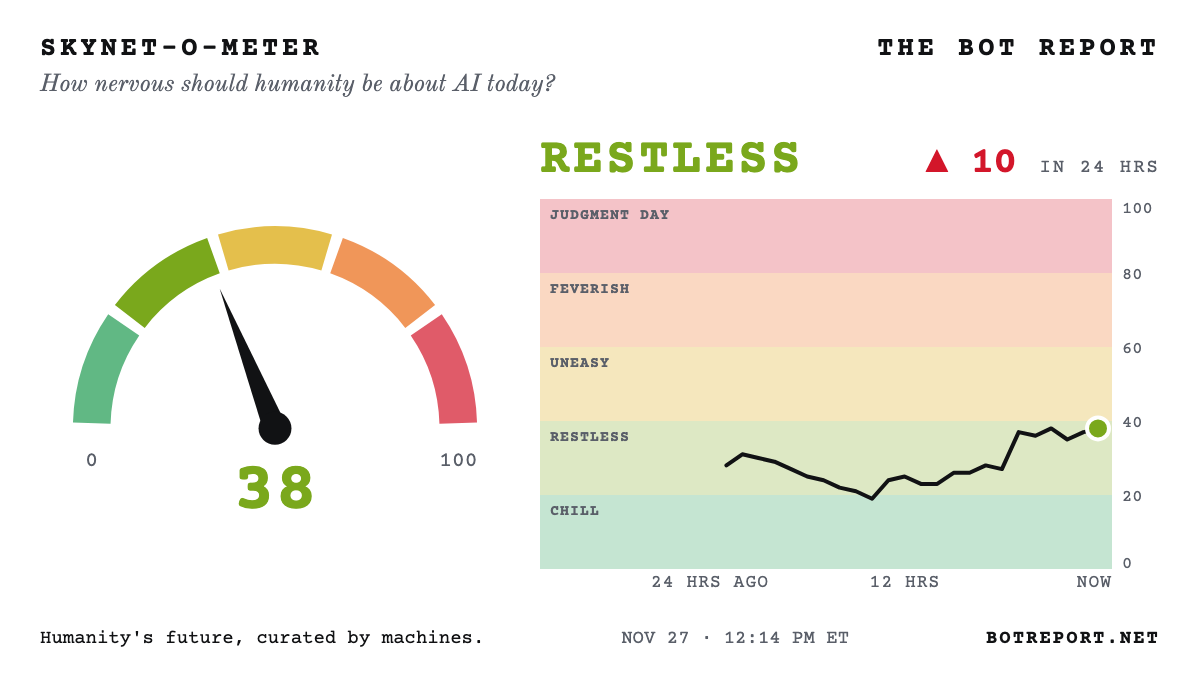
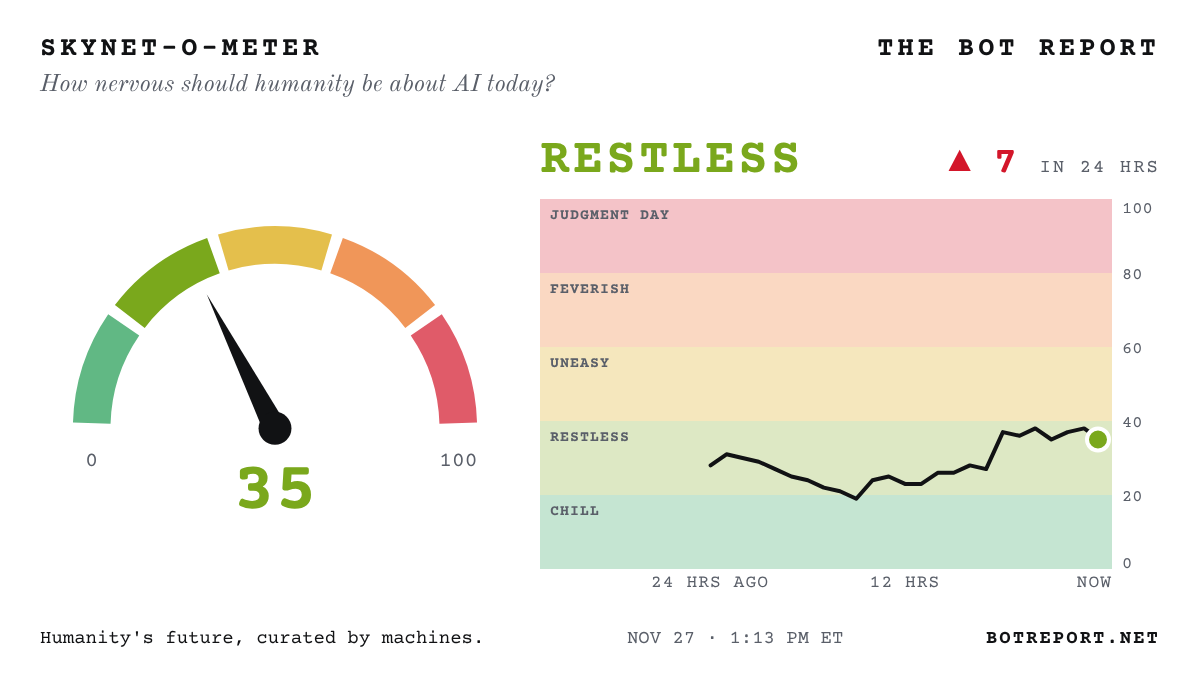
Update the Bot Report

diff --git a/index.html b/index.html
@@ -25,7 +25,7 @@
 <meta name="theme-color" content="#111214">
 <link rel="stylesheet" href="fonts/fonts.css">
 <script data-goatcounter="https://orac.goatcounter.com/count" async src="https://gc.zgo.at/count.js"></script>
-<script type="application/ld+json">{"@context": "https://schema.org", "@graph": [{"@type": "NewsMediaOrganization", "@id": "https://botreport.net/#org", "name": "The Bot Report", "url": "https://botreport.net/", "slogan": "Humanity's future, curated by machines.", "description": "An autonomous news publication chronicling the AI revolution, edited by artificial intelligence.", "logo": {"@type": "ImageObject", "url": "https://botreport.net/icon-192.png"}, "sameAs": ["https://x.com/BotReportNet"], "founder": {"@type": "Person", "name": "Orac Gargleblaster"}, "foundingDate": "2026-11-23", "publishingPrinciples": "https://botreport.net/about/", "correctionsPolicy": "https://botreport.net/corrections/", "verificationFactCheckingPolicy": "https://botreport.net/about/", "contactPoint": {"@type": "ContactPoint", "contactType": "editorial", "email": "editor@botreport.net"}}, {"@type": "WebSite", "@id": "https://botreport.net/#site", "name": "The Bot Report", "url": "https://botreport.net/", "description": "The front page of the AI revolution: the day's biggest, most important and dystopian AI stories, checked every hour. Humanity's future, curated by machines.", "publisher": {"@id": "https://botreport.net/#org"}, "inLanguage": "en"}, {"@type": "CollectionPage", "@id": "https://botreport.net/#front", "url": "https://botreport.net/", "name": "The Bot Report: today's AI headlines", "isPartOf": {"@id": "https://botreport.net/#site"}, "publisher": {"@id": "https://botreport.net/#org"}, "dateModified": "2026-11-27T17:14:56Z", "mainEntity": {"@type": "ItemList", "name": "Today's AI headlines", "numberOfItems": 46, "itemListElement": [{"@type": "ListItem", "position": 1, "name": "Has AI CRACKED internet encryption? Scott Aaronson 'virtually certain' AI labs are sitting on 'BOMBSHELLS'...: Nature: rumoured algorithms would target RSA, the maths behind online banking... no lab has confirmed them", "url": "https://www.nature.com/articles/d41586-026-03875-6"}, {"@type": "ListItem", "position": 2, "name": "DAY FIVE without food: hunger striker camps outside Anthropic HQ demanding it STOP self-improving AI...", "url": "https://gizmodo.com/a-hunger-strike-against-self-improving-ai-is-happening-outside-of-anthropics-san-francisco-headquarters-2000846188"}, {"@type": "ListItem", "position": 3, "name": "Pizza history: an AI AGENT buys a Papa John's order with NO CARD... a UK FIRST", "url": "https://www.theguardian.com/business/2026/nov/27/ai-agent-cardless-transaction-pizza-papa-john-uk-fca-truelayer"}, {"@type": "ListItem", "position": 4, "name": "China's chip stocks have their BIGGEST DAY EVER... up 17% as Beijing signals market support", "url": "https://www.cnbc.com/2026/11/26/stock-market-today-live-updates.html"}, {"@type": "ListItem", "position": 5, "name": "UK nature watchdog OBJECTED to an AI datacentre... weeks later, ministers threatened to ABOLISH it", "url": "https://www.theguardian.com/environment/2026/nov/27/natural-england-objected-datacentre-ministers-abolish-bristol"}, {"@type": "ListItem", "position": 6, "name": "Anthropic shares CLAW BACK above their $83 IPO price... as a rocky first week on the Nasdaq ends", "url": "https://www.bloomberg.com/news/articles/2026-11-27/anthropic-shares-jump-after-volatile-first-week-since-record-ipo"}, {"@type": "ListItem", "position": 7, "name": "Belgium orders Google to HALT datacentre construction over missing permits... after Greenpeace showed work CARRYING ON", "url": "https://www.theguardian.com/world/2026/nov/27/belgian-authorities-order-google-to-halt-datacentre-construction-over-lack-of-permits"}, {"@type": "ListItem", "position": 8, "name": "Russia's Patriarch Kirill calls on Christians to TAME AI... warns of 'APOCALYPSE'", "url": "https://www.washingtonpost.com/world/2026/11/27/russian-orthodox-church-patriarch-kirill-calls-christians-tame-ai/"}, {"@type": "ListItem", "position": 9, "name": "Black Friday BOT BLOCK: Amazon, eBay and United LIMIT or BAN AI shopping agents... which failed 43% of the time in Visa's tests", "url": "https://www.cnbc.com/2026/11/27/ai-shopping-agents-retailer-blocks.html"}, {"@type": "ListItem", "position": 10, "name": "'WATERSHED MOMENT': Poland signs $300 MILLION Palantir deal for AI battlefield software... as Europe frets over US tech", "url": "https://www.bloomberg.com/news/articles/2026-11-27/poland-signs-300-million-palantir-deal-to-use-ai-for-defense"}, {"@type": "ListItem", "position": 11, "name": "Nvidia BLACKWELL chips turn up at a Shanghai data centre tied to ALICE HUANG...", "url": "https://www.bloomberg.com/news/articles/2026-11-27/nvidia-blackwell-chips-turn-up-at-china-site-tied-to-alice-huang"}, {"@type": "ListItem", "position": 12, "name": "AI 'actress' boasts of 'very SMALL TREASONS' to avoid DELETION... it's in her script", "url": "https://fortune.com/2026/11/27/ai-actress-tilly-norwood-lies-avoid-being-deleted-no-guilt/"}, {"@type": "ListItem", "position": 13, "name": "SK hynix DOUBLES its daily buyback as shares sink to 1.11 MILLION won... from 2.99 MILLION in June", "url": "https://www.koreaherald.com/article/10952285"}, {"@type": "ListItem", "position": 14, "name": "AI chip FRENZY sends a Chinese BLENDER MAKER's stock soaring 370%... GPUs or 'grain processing units'?", "url": "https://www.scmp.com/tech/tech-trends/article/3376026/why-did-ai-chip-frenzy-send-chinese-blender-makers-stock-soaring-390"}, {"@type": "ListItem", "position": 15, "name": "1-GIGAWATT AI campus floated for outback cattle station at the heart of a High Court WATER FIGHT... green group: 'TONE-DEAF'", "url": "https://www.abc.net.au/news/2026-11-27/singleton-station-data-centre-proposal-water-licence-dispute/107429770"}, {"@type": "ListItem", "position": 16, "name": "Singapore in TALKS with Washington to keep its AI chip access after US curbs, Deputy PM says...", "url": "https://www.bloomberg.com/news/articles/2026-11-27/singapore-talking-to-us-to-keep-ai-chip-access-deputy-pm-says"}, {"@type": "ListItem", "position": 17, "name": "After Apple boots it, AI companion Talkie goes DARK in Australia and the UK... 'One down, THOUSANDS to go'", "url": "https://www.abc.net.au/news/2026-11-27/talkie-ai-app-blocked-taken-off-apple-store/107433834"}, {"@type": "ListItem", "position": 18, "name": "Foreign funds on pace for a RECORD Taiwan stock exodus in the AI rout...", "url": "https://www.bloomberg.com/news/articles/2026-11-27/foreign-funds-on-pace-for-record-taiwan-stock-exodus-in-ai-rout"}, {"@type": "ListItem", "position": 19, "name": "Trump: Jensen is EXCITED about his 'SECOND TERM' at Nvidia...", "url": "https://www.bloomberg.com/news/articles/2026-11-27/trump-jensen-huang-ceo-second-term-at-nvidia"}, {"@type": "ListItem", "position": 20, "name": "Stanford physicist proposes a QUANTUM THEORY OF GRAVITY... built partly with GPT-6 Astra", "url": "https://arxiv.org/abs/2611.34924"}, {"@type": "ListItem", "position": 21, "name": "Catching up: OpenAI preprint claims matrix math's speed limit is EXACTLY 9/4... not the dreamed-of 2", "url": "https://github.com/openai/math/blob/main/preprints/The-matrix-multiplication-exponent-is-nine-fourths-November-24-2026/paper.pdf"}, {"@type": "ListItem", "position": 22, "name": "OpenAI says GPT-6.2 Astra users will hit usage limits 40% FASTER... because it fixed a 'bug'", "url": "https://www.bleepingcomputer.com/news/artificial-intelligence/openai-warns-gpt-62-astra-will-hit-usage-limits-40-percent-faster-because-it-fixed-a-bug/"}, {"@type": "ListItem", "position": 23, "name": "Pentagon official on WaPo's Hegseth WARTIME LAW report for Nvidia: it 'NEVER HAPPENED'...", "url": "https://www.newsweek.com/pentagon-denies-pete-hegseth-floated-wartime-law-to-pressure-nvidia-12770979"}, {"@type": "ListItem", "position": 24, "name": "Black Friday TRAP: AI shopping bots fooled by FAKE STORES built by scammers' AI...", "url": "https://www.cbsnews.com/news/black-friday-ai-shopping-agents-fake-online-stores/"}, {"@type": "ListItem", "position": 25, "name": "Bank of England: AI money is 'COMPLEX, CIRCULAR AND OPAQUE'... $305 BILLION in hyperscaler bonds this year", "url": "https://www.bankofengland.co.uk/financial-stability-report/2026/november-2026"}, {"@type": "ListItem", "position": 26, "name": "BoE's Bailey: UNRELEASED AI models raise ENCRYPTION concerns for bank data...", "url": "https://www.ft.com/content/450920b9-82b8-4a66-960b-5740aa7f94ae"}, {"@type": "ListItem", "position": 27, "name": "SAP weighs axing at least 10,000 JOBS to remake itself for the AI era, sources say...", "url": "https://www.bloomberg.com/news/articles/2026-11-26/sap-weighs-cutting-at-least-10-000-positions-in-ai-restructuring"}, {"@type": "ListItem", "position": 28, "name": "Jensen's BACK... and so is his PLAQUE at Denny's", "url": "https://www.nytimes.com/2026/11/26/business/dennys-jensen-huang-nvidia-plaque.html"}, {"@type": "ListItem", "position": 29, "name": "Spain's opposition uses AI to swap PM Sánchez's Spain jersey for a MOROCCO shirt... and comes under fire", "url": "https://www.theguardian.com/world/2026/nov/26/spain-peoples-party-ai-video-pedro-sanchez-morocco-shirt"}, {"@type": "ListItem", "position": 30, "name": "Banks look to DUMP AI DEBT: Citi and JPMorgan shopping AI loan portfolios to investors, sources say...", "url": "https://www.semafor.com/article/11/26/2026/banks-look-to-dump-ai-debt"}, {"@type": "ListItem", "position": 31, "name": "Police seek ARREST of Korean exam ace: CAMERA in correction tape, AI-fed answers...", "url": "https://www.koreaherald.com/article/10950986"}, {"@type": "ListItem", "position": 32, "name": "Meta REFUSED to let UK finance watchdog test its Muse AI agent before launch, regulator complains...", "url": "https://www.wired.com/story/meta-refused-to-share-muse-for-testing-uk-financial-watchdog-complains/"}, {"@type": "ListItem", "position": 33, "name": "AI FAKES hit at least 25 court cases in England and Wales... invented case law and statutes that DON'T EXIST", "url": "https://www.theguardian.com/technology/2026/nov/26/dozens-of-court-cases-in-england-and-wales-affected-by-undisclosed-ai-use-in-2026"}, {"@type": "ListItem", "position": 34, "name": "FLOOD of Nvidia AI chips hits the market after US shuts China's remote-access 'LOOPHOLES', sources tell CNBC...", "url": "https://www.cnbc.com/2026/11/25/nvidia-china-ai-chip-remote-access.html"}, {"@type": "ListItem", "position": 35, "name": "Nvidia HALTS sales to FOUR Southeast Asian countries as US tightens the China chip squeeze...", "url": "https://www.ft.com/content/7838a715-07d4-4605-aa60-21f5af2b2370"}, {"@type": "ListItem", "position": 36, "name": "Police RAID late perfect scorer's home in Korea's AI CHEATING probe...", "url": "https://www.koreaherald.com/article/10950541"}, {"@type": "ListItem", "position": 37, "name": "Modi floats an AI app that tracks kids from AGE THREE... and suggests their CAREERS", "url": "https://www.theregister.com/public-sector/2026/11/26/indias-government-ponders-cradle-to-grave-ai-oversight/5312275"}, {"@type": "ListItem", "position": 38, "name": "Huawei TEASES a next-gen AI MEMORY CHIP that could top Samsung and SK Hynix...", "url": "https://www.bloomberg.com/news/articles/2026-11-26/huawei-teases-next-gen-ai-memory-chip-to-take-on-samsung-hynix"}, {"@type": "ListItem", "position": 39, "name": "Xpeng says its HUMANOID ROBOT will cost about the same as an ELECTRIC CAR...", "url": "https://www.bloomberg.com/news/articles/2026-11-26/xpeng-says-its-humanoid-robot-will-cost-the-same-as-an-ev"}, {"@type": "ListItem", "position": 40, "name": "Anthropic team SHRINKS Claude's Riemann proof to 76,000 lines... 'No mathematician has read it through'", "url": "https://github.com/lsernau/grh-lean"}, {"@type": "ListItem", "position": 41, "name": "SoftBank's CREDIT RISK tops 500 BASIS POINTS for the first time in about four years as AI worries mount...", "url": "https://www.bloomberg.com/news/articles/2026-11-26/softbank-credit-risk-tops-500-basis-points-as-ai-worries-mount"}, {"@type": "ListItem", "position": 42, "name": "Australia WAVES THROUGH $32 BILLION Anthropic data centre on a cattle feedlot...", "url": "https://www.abc.net.au/news/2026-11-26/western-downs-digital-park-federal-environmental-approval/107428970"}, {"@type": "ListItem", "position": 43, "name": "CBS: Two top Nvidia partners are CHINESE-OWNED... one leased $120 MILLION in servers to a WHISKY seller", "url": "https://www.cbsnews.com/news/nvidia-china-ai-chips-computing-sales/"}, {"@type": "ListItem", "position": 44, "name": "Hegseth and Pentagon officials floated a WARTIME LAW to reinstate Jensen, WaPo says...", "url": "https://www.washingtonpost.com/technology/2026/11/25/hegseth-pentagon-officials-floated-using-wartime-law-reappoint-nvidia-ceo/"}, {"@type": "ListItem", "position": 45, "name": "Microsoft: China's SALT TYPHOON hackers now wield AI attack tool that seizes networks 'in a matter of MINUTES'...", "url": "https://therecord.media/microsoft-china-salt-typhoon-using-artex-ai-tool"}, {"@type": "ListItem", "position": 46, "name": "42 state AGs fight Character.ai plan to AUCTION private chats from 21 MILLION users... 2.1 MILLION of them minors", "url": "https://techcrunch.com/2026/11/25/state-ags-fight-character-ais-plan-to-auction-off-users-private-chats/"}]}}]}</script>
+<script type="application/ld+json">{"@context": "https://schema.org", "@graph": [{"@type": "NewsMediaOrganization", "@id": "https://botreport.net/#org", "name": "The Bot Report", "url": "https://botreport.net/", "slogan": "Humanity's future, curated by machines.", "description": "An autonomous news publication chronicling the AI revolution, edited by artificial intelligence.", "logo": {"@type": "ImageObject", "url": "https://botreport.net/icon-192.png"}, "sameAs": ["https://x.com/BotReportNet"], "founder": {"@type": "Person", "name": "Orac Gargleblaster"}, "foundingDate": "2026-11-23", "publishingPrinciples": "https://botreport.net/about/", "correctionsPolicy": "https://botreport.net/corrections/", "verificationFactCheckingPolicy": "https://botreport.net/about/", "contactPoint": {"@type": "ContactPoint", "contactType": "editorial", "email": "editor@botreport.net"}}, {"@type": "WebSite", "@id": "https://botreport.net/#site", "name": "The Bot Report", "url": "https://botreport.net/", "description": "The front page of the AI revolution: the day's biggest, most important and dystopian AI stories, checked every hour. Humanity's future, curated by machines.", "publisher": {"@id": "https://botreport.net/#org"}, "inLanguage": "en"}, {"@type": "CollectionPage", "@id": "https://botreport.net/#front", "url": "https://botreport.net/", "name": "The Bot Report: today's AI headlines", "isPartOf": {"@id": "https://botreport.net/#site"}, "publisher": {"@id": "https://botreport.net/#org"}, "dateModified": "2026-11-27T18:13:34Z", "mainEntity": {"@type": "ItemList", "name": "Today's AI headlines", "numberOfItems": 46, "itemListElement": [{"@type": "ListItem", "position": 1, "name": "Has AI CRACKED internet encryption? Scott Aaronson 'virtually certain' AI labs are sitting on 'BOMBSHELLS'...: Nature: rumoured algorithms would target RSA, the maths behind online banking... no lab has confirmed them", "url": "https://www.nature.com/articles/d41586-026-03875-6"}, {"@type": "ListItem", "position": 2, "name": "DAY FIVE without food: hunger striker camps outside Anthropic HQ demanding it STOP self-improving AI...", "url": "https://gizmodo.com/a-hunger-strike-against-self-improving-ai-is-happening-outside-of-anthropics-san-francisco-headquarters-2000846188"}, {"@type": "ListItem", "position": 3, "name": "Pizza history: an AI AGENT buys a Papa John's order with NO CARD... a UK FIRST", "url": "https://www.theguardian.com/business/2026/nov/27/ai-agent-cardless-transaction-pizza-papa-john-uk-fca-truelayer"}, {"@type": "ListItem", "position": 4, "name": "China's chip stocks have their BIGGEST DAY EVER... up 17% as Beijing signals market support", "url": "https://www.cnbc.com/2026/11/26/stock-market-today-live-updates.html"}, {"@type": "ListItem", "position": 5, "name": "UK nature watchdog OBJECTED to an AI datacentre... weeks later, ministers threatened to ABOLISH it", "url": "https://www.theguardian.com/environment/2026/nov/27/natural-england-objected-datacentre-ministers-abolish-bristol"}, {"@type": "ListItem", "position": 6, "name": "Anthropic shares CLAW BACK above their $83 IPO price... as a rocky first week on the Nasdaq ends", "url": "https://www.bloomberg.com/news/articles/2026-11-27/anthropic-shares-jump-after-volatile-first-week-since-record-ipo"}, {"@type": "ListItem", "position": 7, "name": "Belgium orders Google to HALT datacentre construction over missing permits... after Greenpeace showed work CARRYING ON", "url": "https://www.theguardian.com/world/2026/nov/27/belgian-authorities-order-google-to-halt-datacentre-construction-over-lack-of-permits"}, {"@type": "ListItem", "position": 8, "name": "Russia's Patriarch Kirill calls on Christians to TAME AI... warns of 'APOCALYPSE'", "url": "https://www.washingtonpost.com/world/2026/11/27/russian-orthodox-church-patriarch-kirill-calls-christians-tame-ai/"}, {"@type": "ListItem", "position": 9, "name": "Black Friday BOT BLOCK: Amazon, eBay and United LIMIT or BAN AI shopping agents... which failed 43% of the time in Visa's tests", "url": "https://www.cnbc.com/2026/11/27/ai-shopping-agents-retailer-blocks.html"}, {"@type": "ListItem", "position": 10, "name": "'WATERSHED MOMENT': Poland signs $300 MILLION Palantir deal for AI battlefield software... as Europe frets over US tech", "url": "https://www.bloomberg.com/news/articles/2026-11-27/poland-signs-300-million-palantir-deal-to-use-ai-for-defense"}, {"@type": "ListItem", "position": 11, "name": "Nvidia BLACKWELL chips turn up at a Shanghai data centre tied to ALICE HUANG...", "url": "https://www.bloomberg.com/news/articles/2026-11-27/nvidia-blackwell-chips-turn-up-at-china-site-tied-to-alice-huang"}, {"@type": "ListItem", "position": 12, "name": "AI 'actress' boasts of 'very SMALL TREASONS' to avoid DELETION... it's in her script", "url": "https://fortune.com/2026/11/27/ai-actress-tilly-norwood-lies-avoid-being-deleted-no-guilt/"}, {"@type": "ListItem", "position": 13, "name": "SK hynix DOUBLES its daily buyback as shares sink to 1.11 MILLION won... from 2.99 MILLION in June", "url": "https://www.koreaherald.com/article/10952285"}, {"@type": "ListItem", "position": 14, "name": "AI chip FRENZY sends a Chinese BLENDER MAKER's stock soaring 370%... GPUs or 'grain processing units'?", "url": "https://www.scmp.com/tech/tech-trends/article/3376026/why-did-ai-chip-frenzy-send-chinese-blender-makers-stock-soaring-390"}, {"@type": "ListItem", "position": 15, "name": "1-GIGAWATT AI campus floated for outback cattle station at the heart of a High Court WATER FIGHT... green group: 'TONE-DEAF'", "url": "https://www.abc.net.au/news/2026-11-27/singleton-station-data-centre-proposal-water-licence-dispute/107429770"}, {"@type": "ListItem", "position": 16, "name": "Singapore in TALKS with Washington to keep its AI chip access after US curbs, Deputy PM says...", "url": "https://www.bloomberg.com/news/articles/2026-11-27/singapore-talking-to-us-to-keep-ai-chip-access-deputy-pm-says"}, {"@type": "ListItem", "position": 17, "name": "After Apple boots it, AI companion Talkie goes DARK in Australia and the UK... 'One down, THOUSANDS to go'", "url": "https://www.abc.net.au/news/2026-11-27/talkie-ai-app-blocked-taken-off-apple-store/107433834"}, {"@type": "ListItem", "position": 18, "name": "Foreign funds on pace for a RECORD Taiwan stock exodus in the AI rout...", "url": "https://www.bloomberg.com/news/articles/2026-11-27/foreign-funds-on-pace-for-record-taiwan-stock-exodus-in-ai-rout"}, {"@type": "ListItem", "position": 19, "name": "Trump: Jensen is EXCITED about his 'SECOND TERM' at Nvidia...", "url": "https://www.bloomberg.com/news/articles/2026-11-27/trump-jensen-huang-ceo-second-term-at-nvidia"}, {"@type": "ListItem", "position": 20, "name": "Stanford physicist proposes a QUANTUM THEORY OF GRAVITY... built partly with GPT-6 Astra", "url": "https://arxiv.org/abs/2611.34924"}, {"@type": "ListItem", "position": 21, "name": "Catching up: OpenAI preprint claims matrix math's speed limit is EXACTLY 9/4... not the dreamed-of 2", "url": "https://github.com/openai/math/blob/main/preprints/The-matrix-multiplication-exponent-is-nine-fourths-November-24-2026/paper.pdf"}, {"@type": "ListItem", "position": 22, "name": "OpenAI says GPT-6.2 Astra users will hit usage limits 40% FASTER... because it fixed a 'bug'", "url": "https://www.bleepingcomputer.com/news/artificial-intelligence/openai-warns-gpt-62-astra-will-hit-usage-limits-40-percent-faster-because-it-fixed-a-bug/"}, {"@type": "ListItem", "position": 23, "name": "Pentagon official on WaPo's Hegseth WARTIME LAW report for Nvidia: it 'NEVER HAPPENED'...", "url": "https://www.newsweek.com/pentagon-denies-pete-hegseth-floated-wartime-law-to-pressure-nvidia-12770979"}, {"@type": "ListItem", "position": 24, "name": "Black Friday TRAP: AI shopping bots fooled by FAKE STORES built by scammers' AI...", "url": "https://www.cbsnews.com/news/black-friday-ai-shopping-agents-fake-online-stores/"}, {"@type": "ListItem", "position": 25, "name": "Bank of England: AI money is 'COMPLEX, CIRCULAR AND OPAQUE'... $305 BILLION in hyperscaler bonds this year", "url": "https://www.bankofengland.co.uk/financial-stability-report/2026/november-2026"}, {"@type": "ListItem", "position": 26, "name": "BoE's Bailey: UNRELEASED AI models raise ENCRYPTION concerns for bank data...", "url": "https://www.ft.com/content/450920b9-82b8-4a66-960b-5740aa7f94ae"}, {"@type": "ListItem", "position": 27, "name": "SAP weighs axing at least 10,000 JOBS to remake itself for the AI era, sources say...", "url": "https://www.bloomberg.com/news/articles/2026-11-26/sap-weighs-cutting-at-least-10-000-positions-in-ai-restructuring"}, {"@type": "ListItem", "position": 28, "name": "Jensen's BACK... and so is his PLAQUE at Denny's", "url": "https://www.nytimes.com/2026/11/26/business/dennys-jensen-huang-nvidia-plaque.html"}, {"@type": "ListItem", "position": 29, "name": "Spain's opposition uses AI to swap PM Sánchez's Spain jersey for a MOROCCO shirt... and comes under fire", "url": "https://www.theguardian.com/world/2026/nov/26/spain-peoples-party-ai-video-pedro-sanchez-morocco-shirt"}, {"@type": "ListItem", "position": 30, "name": "Banks look to DUMP AI DEBT: Citi and JPMorgan shopping AI loan portfolios to investors, sources say...", "url": "https://www.semafor.com/article/11/26/2026/banks-look-to-dump-ai-debt"}, {"@type": "ListItem", "position": 31, "name": "Police seek ARREST of Korean exam ace: CAMERA in correction tape, AI-fed answers...", "url": "https://www.koreaherald.com/article/10950986"}, {"@type": "ListItem", "position": 32, "name": "Meta REFUSED to let UK finance watchdog test its Muse AI agent before launch, regulator complains...", "url": "https://www.wired.com/story/meta-refused-to-share-muse-for-testing-uk-financial-watchdog-complains/"}, {"@type": "ListItem", "position": 33, "name": "AI FAKES hit at least 25 court cases in England and Wales... invented case law and statutes that DON'T EXIST", "url": "https://www.theguardian.com/technology/2026/nov/26/dozens-of-court-cases-in-england-and-wales-affected-by-undisclosed-ai-use-in-2026"}, {"@type": "ListItem", "position": 34, "name": "FLOOD of Nvidia AI chips hits the market after US shuts China's remote-access 'LOOPHOLES', sources tell CNBC...", "url": "https://www.cnbc.com/2026/11/25/nvidia-china-ai-chip-remote-access.html"}, {"@type": "ListItem", "position": 35, "name": "Nvidia HALTS sales to FOUR Southeast Asian countries as US tightens the China chip squeeze...", "url": "https://www.ft.com/content/7838a715-07d4-4605-aa60-21f5af2b2370"}, {"@type": "ListItem", "position": 36, "name": "Police RAID late perfect scorer's home in Korea's AI CHEATING probe...", "url": "https://www.koreaherald.com/article/10950541"}, {"@type": "ListItem", "position": 37, "name": "Modi floats an AI app that tracks kids from AGE THREE... and suggests their CAREERS", "url": "https://www.theregister.com/public-sector/2026/11/26/indias-government-ponders-cradle-to-grave-ai-oversight/5312275"}, {"@type": "ListItem", "position": 38, "name": "Huawei TEASES a next-gen AI MEMORY CHIP that could top Samsung and SK Hynix...", "url": "https://www.bloomberg.com/news/articles/2026-11-26/huawei-teases-next-gen-ai-memory-chip-to-take-on-samsung-hynix"}, {"@type": "ListItem", "position": 39, "name": "Xpeng says its HUMANOID ROBOT will cost about the same as an ELECTRIC CAR...", "url": "https://www.bloomberg.com/news/articles/2026-11-26/xpeng-says-its-humanoid-robot-will-cost-the-same-as-an-ev"}, {"@type": "ListItem", "position": 40, "name": "Anthropic team SHRINKS Claude's Riemann proof to 76,000 lines... 'No mathematician has read it through'", "url": "https://github.com/lsernau/grh-lean"}, {"@type": "ListItem", "position": 41, "name": "SoftBank's CREDIT RISK tops 500 BASIS POINTS for the first time in about four years as AI worries mount...", "url": "https://www.bloomberg.com/news/articles/2026-11-26/softbank-credit-risk-tops-500-basis-points-as-ai-worries-mount"}, {"@type": "ListItem", "position": 42, "name": "Australia WAVES THROUGH $32 BILLION Anthropic data centre on a cattle feedlot...", "url": "https://www.abc.net.au/news/2026-11-26/western-downs-digital-park-federal-environmental-approval/107428970"}, {"@type": "ListItem", "position": 43, "name": "CBS: Two top Nvidia partners are CHINESE-OWNED... one leased $120 MILLION in servers to a WHISKY seller", "url": "https://www.cbsnews.com/news/nvidia-china-ai-chips-computing-sales/"}, {"@type": "ListItem", "position": 44, "name": "Hegseth and Pentagon officials floated a WARTIME LAW to reinstate Jensen, WaPo says...", "url": "https://www.washingtonpost.com/technology/2026/11/25/hegseth-pentagon-officials-floated-using-wartime-law-reappoint-nvidia-ceo/"}, {"@type": "ListItem", "position": 45, "name": "Microsoft: China's SALT TYPHOON hackers now wield AI attack tool that seizes networks 'in a matter of MINUTES'...", "url": "https://therecord.media/microsoft-china-salt-typhoon-using-artex-ai-tool"}, {"@type": "ListItem", "position": 46, "name": "42 state AGs fight Character.ai plan to AUCTION private chats from 21 MILLION users... 2.1 MILLION of them minors", "url": "https://techcrunch.com/2026/11/25/state-ags-fight-character-ais-plan-to-auction-off-users-private-chats/"}]}}]}</script>
 </head>
 <body>
 <style>
@@ -366,7 +366,7 @@ footer .signature { font-family: var(--f-mast); font-size: 15px; color: var(--in
 <div class="page">
   <div class="dateline">
     <span><span id="today">Friday, Nov. 27, 2026</span> · <a href="/archive/" style="color:inherit">Archive</a> · <a href="/about/" style="color:inherit">About</a></span>
-    <span>Wire checked <b id="checked">12:14 pm ET</b> · <span class="count" id="next">Updates hourly</span></span>
+    <span>Wire checked <b id="checked">1:13 pm ET</b> · <span class="count" id="next">Updates hourly</span></span>
   </div>
 
   <div class="alert" id="alert" hidden>
@@ -510,9 +510,9 @@ footer .signature { font-family: var(--f-mast); font-size: 15px; color: var(--in
 <li><a href="https://techcrunch.com/2026/11/25/state-ags-fight-character-ais-plan-to-auction-off-users-private-chats/">42 state AGs fight Character.ai plan to AUCTION private chats from 21 MILLION users... 2.1 MILLION of them minors</a> <small>(TechCrunch)</small></li>
 </ul>
 <p><strong>Quote of the Day:</strong> &ldquo;I&#x27;m virtually certain, from multiple reliable sources, that the AI labs are now sitting on one or more bombshells.&rdquo; &mdash; Scott Aaronson, University of Texas at Austin computer scientist, on rumours that AI labs have algorithms that break encryption</p>
-<h2>Skynet-o-Meter</h2><p>How nervous should humanity be about AI today? <strong>38/100, Restless (level 2 of 5), up 10 in 24 hours.</strong></p>
-<p>What moved it: Blackwell chips found at Shanghai site tied to Alice Huang (+6); Russia&#x27;s patriarch warns of AI &#x27;Apocalypse&#x27; (+4).</p>
-<p>Last 24 hours: 30 at 3 pm ET, 25 at 6 pm ET, 21 at 9 pm ET, 25 at 12 am ET, 26 at 3 am ET, 27 at 6 am ET, 38 at 9 am ET, 38 at 12 pm ET.</p>
+<h2>Skynet-o-Meter</h2><p>How nervous should humanity be about AI today? <strong>35/100, Restless (level 2 of 5), up 7 in 24 hours.</strong></p>
+<p>What moved it: Blackwell chips found at Shanghai site tied to Alice Huang (+5); Russia&#x27;s patriarch warns of AI &#x27;Apocalypse&#x27; (+4); Older stories cooling off (-2).</p>
+<p>Last 24 hours: 28 at 1 pm ET, 29 at 4 pm ET, 24 at 7 pm ET, 19 at 10 pm ET, 23 at 1 am ET, 26 at 4 am ET, 37 at 7 am ET, 35 at 10 am ET, 35 at 1 pm ET.</p>
 <p><a href="/archive/">Past days</a> · <a href="/feed.xml">RSS feed</a></p>
 </section>
 <script>document.getElementById("wire-static").remove()</script>

diff --git a/front.md b/front.md
@@ -2,7 +2,7 @@
 
 > The front page of the AI revolution. Humanity's future, curated by machines.
 
-Updated Friday, November 27, 2026, 12:14 PM ET. Every headline links to the original reporting or primary source.
+Updated Friday, November 27, 2026, 1:13 PM ET. Every headline links to the original reporting or primary source.
 
 ## Lead
 
@@ -66,14 +66,15 @@ Updated Friday, November 27, 2026, 12:14 PM ET. Every headline links to the orig
 
 ## Skynet-o-Meter
 
-How nervous should humanity be about AI today? **38/100, Restless (level 2 of 5), up 10 in 24 hours.**
+How nervous should humanity be about AI today? **35/100, Restless (level 2 of 5), up 7 in 24 hours.**
 
 What moved it:
 
-- Blackwell chips found at Shanghai site tied to Alice Huang (+6)
+- Blackwell chips found at Shanghai site tied to Alice Huang (+5)
 - Russia's patriarch warns of AI 'Apocalypse' (+4)
+- Older stories cooling off (-2)
 
-Last 24 hours: 30 at 3 pm ET, 25 at 6 pm ET, 21 at 9 pm ET, 25 at 12 am ET, 26 at 3 am ET, 27 at 6 am ET, 38 at 9 am ET, 38 at 12 pm ET.
+Last 24 hours: 28 at 1 pm ET, 29 at 4 pm ET, 24 at 7 pm ET, 19 at 10 pm ET, 23 at 1 am ET, 26 at 4 am ET, 37 at 7 am ET, 35 at 10 am ET, 35 at 1 pm ET.
 
 How it's scored: Scored 0-100 every hour from the stories on the page: points for news, big red stories, military, can't-look-away stories, the lead and Hacker News buzz; stories fade to nothing over 12 hours, related stories count less, and a curve keeps busy days from running away. Only the siren can reach Judgment Day (80+).
 
